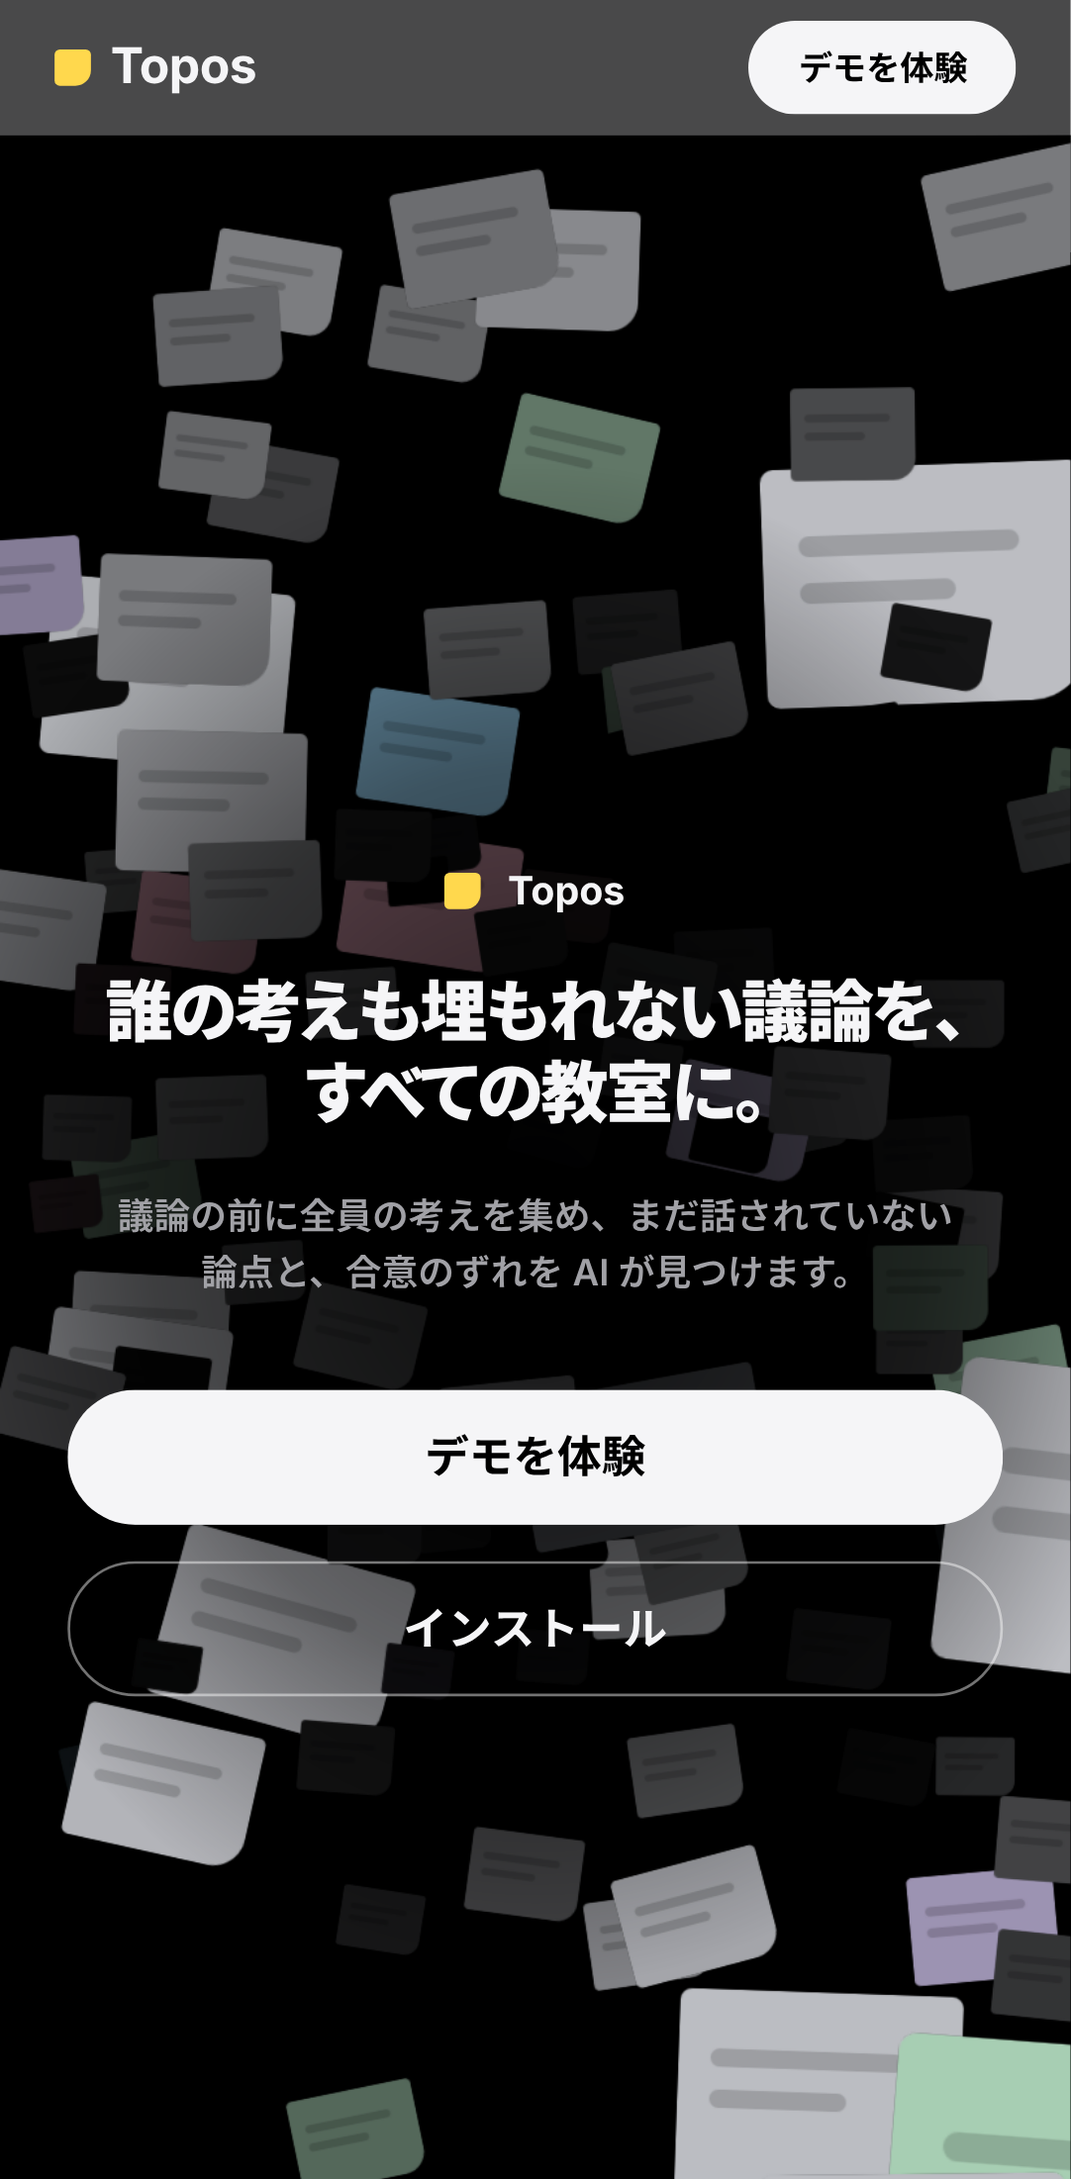
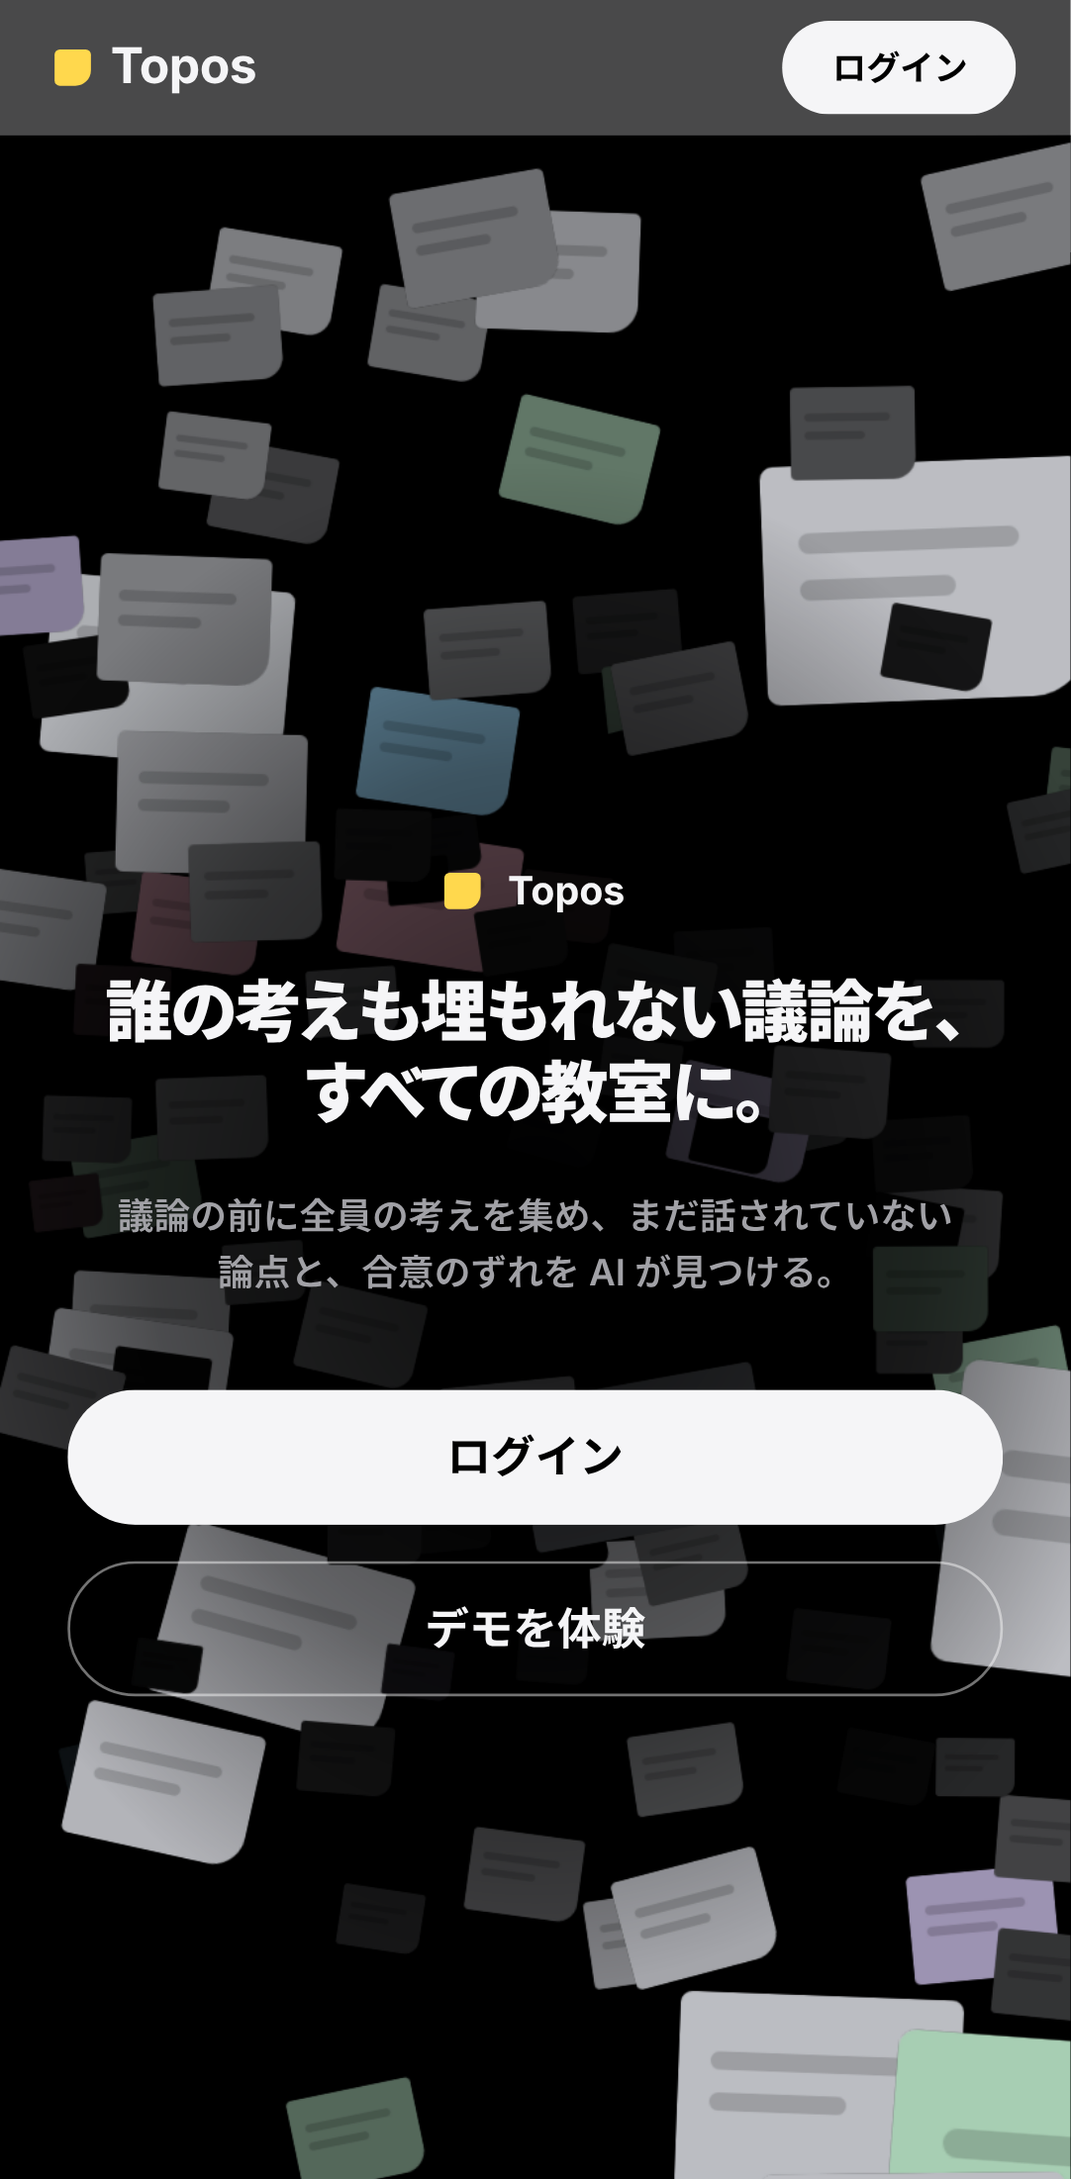
feat(web): LP の導線を「ログイン」と「利用の申し込み」にし、インストールを外す
- 冒頭とナビ：主ボタンは「ログイン」、副ボタンは「デモを体験」
- 始め方：学生（ログインして参加）、招待を受けた教員（ログイン）、これから使う教員・学校（メールで申し込む）
- 申し込みの窓口は contact@yuto-matsui.com（件名と記入項目を入れてメールを開く）。フッターに「お問い合わせ」
- PC では不要なインストールのボタンを LP から外す
- デモの言葉を、事務的な言い回しから自然な言葉に直す
- E2E：冒頭のログインがログイン画面へ進むことと、申し込みのリンクの宛先を確かめる

Claude-Session: https://claude.ai/code/session_01XeXc3kuAe6CUmQorA8guac

diff --git a/web/src/app/lp/page.tsx b/web/src/app/lp/page.tsx
@@ -1,6 +1,5 @@
 import type { Metadata } from "next";
 import Link from "next/link";
-import { InstallButton } from "@/components/lp/InstallButton";
 import { LpDemo } from "@/components/lp/LpDemo";
 import { NotesScene, RoomsScene } from "@/components/lp/LpGL";
 import { LpScenes } from "@/components/lp/LpScenes";
@@ -11,7 +10,7 @@ import "./lp.css";
  * 見出しは確定済みのタグライン。構成はタグラインの前半と後半を順に掘り下げる。
  * - 誰の考えも埋もれない議論：議論の前・中・あとの3つの機能（事前意見収集・未検討論点の検出・合意の実態検証）
  * - すべての教室に：学生・教員・学校それぞれにとっての価値（Docs「サービス形態」の目的）
- * 行動は「デモを体験」と「インストール」。主役は映像（Three.js の2つの場面と付箋の図）で、文章は短く控えめにする。アプリの画面は使わない。
+ * 行動は「ログイン」（学生・招待済みの教員）と「利用を申し込む」（これから使う教員・学校。メール）。「デモを体験」は LP の中で完結する。主役は映像（Three.js の2つの場面と付箋の図）で、文章は短く控えめにする。アプリの画面は使わない。
  */
 
 export const metadata: Metadata = {
@@ -19,6 +18,10 @@ export const metadata: Metadata = {
   description: "議論の前に全員の考えを集め、まだ話されていない論点と、合意のずれを AI が見つける。",
   openGraph: { title: "Topos — 誰の考えも埋もれない議論を、すべての教室に。", description: "議論の前に全員の考えを集め、まだ話されていない論点と、合意のずれを AI が見つける。", locale: "ja_JP", type: "website" },
 };
+
+/** 利用の申し込み（これから使う教員・学校）。窓口はメール。件名と記入項目を入れて開く */
+const CONTACT = "contact@yuto-matsui.com";
+const APPLY = `mailto:${CONTACT}?subject=${encodeURIComponent("Topos の利用申し込み")}&body=${encodeURIComponent("学校名：\nお名前：\n担当の授業・学年：\n使う教員の人数：\n")}`;
 
 const STAGES = [
   { when: "議論の前", title: "まず、全員が書く。", body: "読めるのは、書いた本人だけ。人前では言えない本音も、ここなら書ける。", feature: "事前意見収集", art: "before" },
@@ -72,8 +75,8 @@ export default function LandingPage() {
         <div className="lp-nav__in">
           <Link href="/lp" className="lp-nav__brand"><span className="lp-nav__mark" aria-hidden="true" />Topos</Link>
           <nav className="lp-nav__end" aria-label="LP">
-            <Link href="/" className="lp-nav__link">ログイン</Link>
-            <a href="#demo" className="lp-btn lp-btn--sm">デモを体験</a>
+            <a href="#demo" className="lp-nav__link">デモを体験</a>
+            <Link href="/" className="lp-btn lp-btn--sm">ログイン</Link>
           </nav>
         </div>
       </header>
@@ -88,8 +91,8 @@ export default function LandingPage() {
               <h1 id="lp-title" className="hero__title">誰の考えも埋もれない議論を、<br />すべての教室に。</h1>
               <p className="hero__lead">議論の前に全員の考えを集め、まだ話されていない論点と、合意のずれを AI が見つける。</p>
               <div className="lp-actions">
-                <a href="#demo" className="lp-btn lp-btn--light">デモを体験</a>
-                <InstallButton className="lp-btn lp-btn--outline" />
+                <Link href="/" className="lp-btn lp-btn--light">ログイン</Link>
+                <a href="#demo" className="lp-btn lp-btn--outline">デモを体験</a>
               </div>
             </div>
             <p className="hero__found">書いたのに、言い出せなかった意見がある。<br />Topos は、それを見逃さない。</p>
@@ -160,18 +163,27 @@ export default function LandingPage() {
         <section className="sec sec--gray" aria-labelledby="lp-start-title">
           <div className="wrap">
             <header className="sec__head" data-reveal>
-              <h2 id="lp-start-title" className="h2">教員1人から、今日始められる。</h2>
+              <h2 id="lp-start-title" className="h2">今日から、使い始める。</h2>
             </header>
-            <div className="plans">
-              <article className="plan" data-reveal>
-                <p className="plan__who">教員</p>
-                <h3 className="plan__title">教員1人で使う</h3>
-                <p className="plan__body">招待された Google アカウントで、すぐに議論を作れる。学生は参加コードか QR で入るだけ。</p>
+            <div className="starts">
+              <article className="start" data-reveal>
+                <p className="start__who">学生</p>
+                <h3 className="start__title">授業の議論に参加する</h3>
+                <p className="start__body">教員から届いた参加コードか QR で入る。Google アカウントがあれば参加できる。</p>
+                <Link href="/" className="lp-btn lp-btn--dark start__cta">ログインして参加する</Link>
               </article>
-              <article className="plan plan--school" data-reveal>
-                <p className="plan__who">学校</p>
-                <h3 className="plan__title">学校全体で使う</h3>
-                <p className="plan__body">全クラスで使うなら、教員の権限を学校でまとめて管理できる。</p>
+              <article className="start" data-reveal>
+                <p className="start__who">招待を受けた教員</p>
+                <h3 className="start__title">議論を作る</h3>
+                <p className="start__body">招待された Google アカウントでログインすると、すぐにテーマを入れて議論を作れる。</p>
+                <Link href="/" className="lp-btn lp-btn--dark start__cta">ログイン</Link>
+              </article>
+              <article className="start start--apply" data-reveal>
+                <p className="start__who">これから使う教員・学校</p>
+                <h3 className="start__title">利用を申し込む</h3>
+                <p className="start__body">教員1人でも、学校全体でも。メールで申し込むと、議論を作れる教員の招待を届ける。</p>
+                <a href={APPLY} className="lp-btn lp-btn--light start__cta">メールで申し込む</a>
+                <p className="start__mail">{CONTACT}</p>
               </article>
             </div>
           </div>
@@ -183,8 +195,8 @@ export default function LandingPage() {
             <p className="end__brand"><span aria-hidden="true" />Topos</p>
             <h2 id="lp-end-title" className="end__title">誰の考えも埋もれない議論を、すべての教室に。</h2>
             <div className="lp-actions">
-              <a href="#demo" className="lp-btn lp-btn--light">デモを体験</a>
-              <InstallButton className="lp-btn lp-btn--outline" />
+              <Link href="/" className="lp-btn lp-btn--light">ログイン</Link>
+              <a href={APPLY} className="lp-btn lp-btn--outline">利用を申し込む</a>
             </div>
           </div>
         </section>
@@ -193,7 +205,7 @@ export default function LandingPage() {
       <footer className="foot">
         <p className="foot__brand">Topos</p>
         <p>© 2026 Triple Helix. Developed by Yuto, Ryota &amp; Koyuri.</p>
-        <nav aria-label="フッター" className="foot__links"><Link href="/about">プライバシー</Link><Link href="/">ログイン</Link></nav>
+        <nav aria-label="フッター" className="foot__links"><Link href="/about">プライバシー</Link><a href={APPLY}>お問い合わせ</a><Link href="/">ログイン</Link></nav>
       </footer>
     </div>
   );

diff --git a/web/src/components/lp/LpDemo.tsx b/web/src/components/lp/LpDemo.tsx
@@ -74,19 +74,19 @@ export function LpDemo() {
 
           {step === 0 && !submitted && (
             <form className="demo__write" onSubmit={(e) => { e.preventDefault(); if (text.trim()) setSubmitted(true); }}>
-              <label htmlFor="demo-opinion" className="demo__label">議論の前に、あなたの考えを</label>
-              <textarea id="demo-opinion" className="demo__input" rows={3} maxLength={60} value={text} onChange={(e) => setText(e.target.value)} placeholder="ここに書きます" />
+              <label htmlFor="demo-opinion" className="demo__label">議論の前に、あなたの考えを書いてみよう</label>
+              <textarea id="demo-opinion" className="demo__input" rows={3} maxLength={60} value={text} onChange={(e) => setText(e.target.value)} placeholder="たとえば：認めていい。でも、使ったことは書くべき" />
               <p className="demo__hint">書いた本文は、あなたにしか見えない。</p>
               <div className="demo__row">
-                <button type="submit" className="lp-btn lp-btn--primary" disabled={!text.trim()}>提出する</button>
-                <button type="button" className="lp-btn lp-btn--text" onClick={() => setText(SAMPLE)}>例文を入れる</button>
+                <button type="submit" className="lp-btn lp-btn--primary" disabled={!text.trim()}>書き終えた</button>
+                <button type="button" className="lp-btn lp-btn--text" onClick={() => setText(SAMPLE)}>例を入れてみる</button>
               </div>
             </form>
           )}
           {step === 0 && submitted && (
             <div className="demo__done" role="status">
               <p className="paper paper--mine">{text}</p>
-              <p className="demo__hint">提出しました。本文は、あなたにだけ見えます。</p>
+              <p className="demo__hint">書けた。この考えは、あなたにしか見えない。</p>
             </div>
           )}
 
@@ -96,19 +96,19 @@ export function LpDemo() {
               <ul className="demo__lines" aria-live="polite">
                 {TALK.slice(0, lines).map((l) => <li key={l.who}><span className="demo__avatar">{l.who}</span><p>{l.text}</p></li>)}
               </ul>
-              {!talked && <p className="demo__hint">話し合っています…</p>}
+              {!talked && <p className="demo__hint">議論が進んでいる…</p>}
             </div>
           )}
 
           {step === 2 && (
             <div className="demo__sum">
-              <p className="demo__label" id="demo-reading">結論を、自分の言葉で言うと？</p>
+              <p className="demo__label" id="demo-reading">結論を、自分の言葉で言うなら？</p>
               <div className="demo__choices" role="radiogroup" aria-labelledby="demo-reading">
                 {READINGS.map((r, i) => (
                   <button key={r.text} type="button" role="radio" aria-checked={choice === i} className={`demo__choice${choice === i ? " is-on" : ""}`} onClick={() => setChoice(i)} disabled={choice !== null && choice !== i}>{r.text}</button>
                 ))}
               </div>
-              {choice !== null && <p className="demo__hint" role="status">送りました。ほかの5人も、それぞれの言葉で書いています。</p>}
+              {choice !== null && <p className="demo__hint" role="status">ほかの5人も、それぞれの言葉で書いた。</p>}
             </div>
           )}
         </section>
@@ -119,25 +119,25 @@ export function LpDemo() {
 
           {step === 0 && (
             <div>
-              <p className="demo__label">事前の意見　{total} / {CLASSMATES + 1}人</p>
+              <p className="demo__label">集まった考え　{total} / {CLASSMATES + 1}人</p>
               <ul className="demo__slots" aria-hidden="true">
                 {Array.from({ length: CLASSMATES + 1 }, (_, i) => <li key={i} className={i < total ? "is-in" : undefined} />)}
               </ul>
-              <p className="demo__hint">教員に見えるのは、提出した人数だけ。本文は見えない。</p>
+              <p className="demo__hint">教員に見えるのは、集まった人数だけ。中身は見えない。</p>
             </div>
           )}
 
           {step === 1 && (
             <div className="demo__teacher-talk">
-              {!talked && <p className="demo__hint">議論の内容と、事前の意見を照らし合わせています。</p>}
+              {!talked && <p className="demo__hint">議論と、事前に書かれた考えを照らし合わせている…</p>}
               {talked && question === "pending" && (
                 <div className="ai-note" role="status">
                   <p className="ai-note__label">まだ話されていない論点</p>
                   <p className="ai-note__text">AI を使ったことを、どこまで申告する？</p>
-                  <p className="ai-note__why">事前の意見で、2人が触れています。</p>
+                  <p className="ai-note__why">事前に2人が書いていたのに、まだ誰も話していない。</p>
                   <div className="demo__row">
-                    <button type="button" className="lp-btn lp-btn--dark" onClick={() => setQuestion("shown")}>全員に表示</button>
-                    <button type="button" className="lp-btn lp-btn--text" onClick={() => setQuestion("skipped")}>見送る</button>
+                    <button type="button" className="lp-btn lp-btn--dark" onClick={() => setQuestion("shown")}>全員に問いかける</button>
+                    <button type="button" className="lp-btn lp-btn--text" onClick={() => setQuestion("skipped")}>今は見送る</button>
                   </div>
                 </div>
               )}
@@ -151,7 +151,7 @@ export function LpDemo() {
               <p className="demo__label">グループの結論</p>
               <p className="demo__conclusion">AI の利用を認める。<span>全員が賛成</span></p>
               {choice === null
-                ? <p className="demo__hint">全員の一文を待っています。</p>
+                ? <p className="demo__hint">全員の一文を待っている…</p>
                 : (
                   <div role="status">
                     <ul className="demo__split">
@@ -168,7 +168,7 @@ export function LpDemo() {
       <div className="demo__next">
         {step === 0 && <button type="button" className="lp-btn lp-btn--primary" disabled={!submitted || others < CLASSMATES} onClick={() => setStep(1)}>議論を始める</button>}
         {step === 1 && <button type="button" className="lp-btn lp-btn--primary" disabled={!talked || question === "pending"} onClick={() => setStep(2)}>結論をまとめる</button>}
-        {step === 2 && choice !== null && <button type="button" className="lp-btn lp-btn--text" onClick={restart}>最初から体験する</button>}
+        {step === 2 && choice !== null && <button type="button" className="lp-btn lp-btn--text" onClick={restart}>もう一度やってみる</button>}
         <p className="demo__note">このデモは端末の中だけで動く。入力した文章は送信しない。</p>
       </div>
     </div>

diff --git a/web/src/app/lp/lp.css b/web/src/app/lp/lp.css
@@ -36,7 +36,8 @@ html:has(.lp) { background: #000; scroll-behavior: smooth; }
 .lp-btn--light:hover { background: #fff; }
 .lp-btn--outline { background: transparent; color: var(--white) !important; border-color: rgb(255 255 255 / .45); }
 .lp-btn--outline:hover { border-color: var(--white); }
-.lp-btn--dark { background: var(--ink); color: #fff; }
+.lp-btn--dark { background: var(--ink); color: #fff !important; }
+.lp-btn--dark:not(:disabled):hover { background: #000; }
 .lp-btn--text { min-height: 44px; padding: 0 12px; background: none; border: 0; color: var(--brand-ink); }
 .lp-btn--text:hover { text-decoration: underline; text-underline-offset: 4px; }
 .lp-btn--sm { min-height: 36px; padding: 0 18px; font-size: 13px; background: var(--white); color: #000 !important; }
@@ -193,6 +194,18 @@ html:has(.lp) { background: #000; scroll-behavior: smooth; }
 .plan--school { background: var(--brand); color: #fff; }
 .plan--school .plan__who, .plan--school .plan__body { color: rgb(255 255 255 / .8); }
 
+/* 始め方：立場ごとの入口 */
+.starts { display: grid; grid-template-columns: repeat(3, minmax(0, 1fr)); gap: 24px; margin-top: clamp(48px, 7vw, 88px); }
+.start { display: flex; flex-direction: column; min-height: 360px; padding: clamp(32px, 3.4vw, 48px); background: #fff; border-radius: 36px; }
+.start:nth-child(2) { transition-delay: .12s; } .start:nth-child(3) { transition-delay: .24s; }
+.start__who { font-size: 15px; font-weight: 700; color: var(--ink-2); }
+.start__title { margin-top: 8px; font-size: clamp(22px, 2vw, 28px); font-weight: 800; line-height: 1.35; letter-spacing: -.02em; font-feature-settings: "palt" 1; }
+.start__body { margin: 14px 0 32px; font-size: 16px; line-height: 1.75; color: var(--ink-2); }
+.start__cta { align-self: flex-start; margin-top: auto; }
+.start--apply { background: var(--brand); color: #fff; }
+.start--apply .start__who, .start--apply .start__body { color: rgb(255 255 255 / .82); }
+.start__mail { margin-top: 12px; font-size: 14px; color: rgb(255 255 255 / .82); }
+
 /* 締め */
 .end__brand { display: inline-flex; align-items: center; gap: 10px; font-size: 21px; font-weight: 700; }
 .end__brand span { width: 16px; height: 16px; border-radius: 2px 2px 7px 2px; background: var(--insight); }
@@ -295,6 +308,8 @@ html:has(.lp) { background: #000; scroll-behavior: smooth; }
 
 /* ---------- タブレット・スマホ ---------- */
 @media (max-width: 1023px) {
+  .starts { grid-template-columns: minmax(0, 1fr); }
+  .start { min-height: 0; }
   .stage { grid-template-columns: minmax(0, 1fr); min-height: 0; }
   .audience { grid-template-columns: minmax(0, 1fr); }
 }
@@ -311,7 +326,9 @@ html:has(.lp) { background: #000; scroll-behavior: smooth; }
   .art--during > i:nth-child(n+7) { display: none; }
   .art__found { grid-column: 1 / -1; }
   .art__groups span:nth-child(2) { margin-left: 4%; } .art__groups span:nth-child(3) { margin-left: 8%; }
-  .plans { grid-template-columns: minmax(0, 1fr); }
+  .plans, .starts { grid-template-columns: minmax(0, 1fr); }
+  .start { min-height: 0; }
+  .start__cta { align-self: stretch; }
   .plan { min-height: 0; }
   .demo__stage { grid-template-columns: minmax(0, 1fr); }
   .demo__pane { min-height: 0; }
